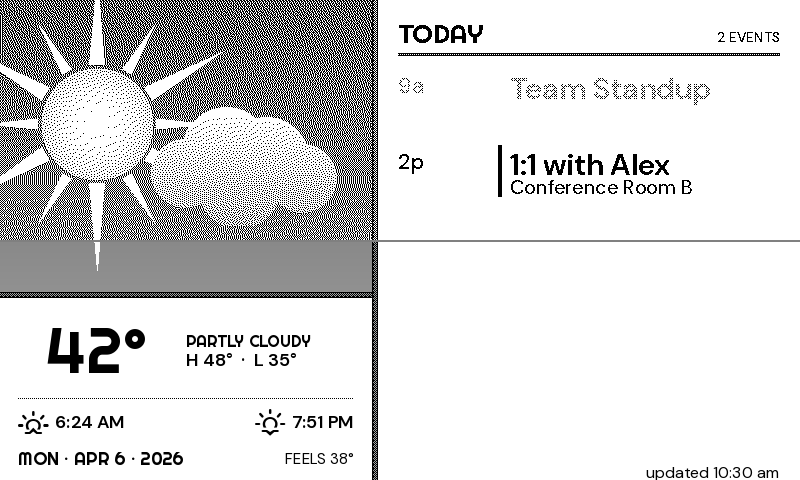
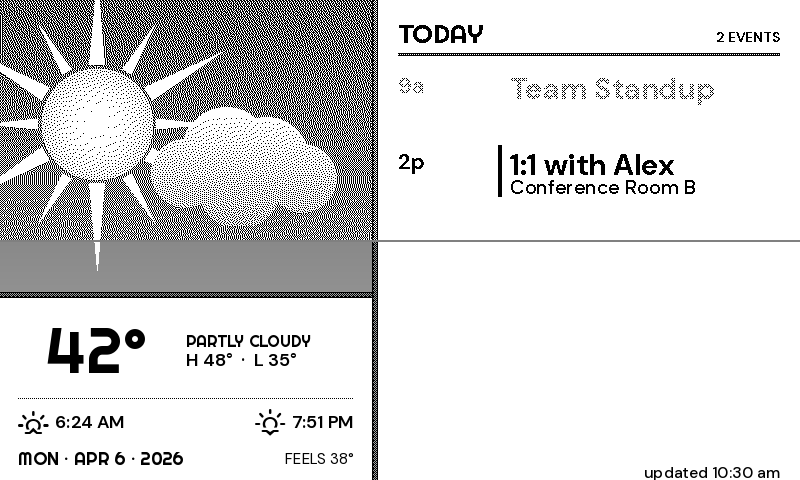
Match the halftone_agenda calendar side to its weather side
Reported from the panel: the weather band reads properly black while the
agenda beside it reads grey. Both panes are pure black on pure white by
the time the display sees them — the hardening pass guarantees that — so
this is stroke mass, not tone.

Measured at 22 px against the theme's own hardening cut: Righteous, which
sets the weather pane, lays down ~4.4 px stems; DM Sans SemiBold, which
set the agenda titles, ~3.7 px; DM Sans Regular at the 17 px used for
locations and the footer, ~1.8 px. A 1.8 px stroke on eInk is grey no
matter how black its pixels are.

The agenda now runs one weight heavier than the role each element fills
— bold titles, semibold times, medium locations, footer and count — and
the theme points its bold role at DM Sans Bold rather than Righteous,
which was only ever reached as a fallback there. DM Sans Bold at 22 px
is ~4.4 px, so the two panes now carry the same weight of ink.

Claude-Session: https://claude.ai/code/session_01B9xgTmJ1G2ewnUiMBvorMa

diff --git a/tests/test_halftone_agenda_theme.py b/tests/test_halftone_agenda_theme.py
@@ -549,6 +549,61 @@ class TestAgendaRowTreatment:
         )
 
 
+class TestAgendaWeight:
+    """The calendar side must lay down as much ink as the weather side.
+
+    Both panes are pure black on pure white by the time the panel sees them,
+    so "not black enough" is a question of stroke mass, not of tone: at 22 px
+    Righteous sets ~4.4 px stems and DM Sans SemiBold ~3.7 px, which reads as
+    grey text next to it. The agenda therefore runs one weight heavier than
+    the role each element fills.
+    """
+
+    def _mean_stem(self, font, text="12:30p Grocery run") -> float:
+        from PIL import ImageDraw
+
+        from src.render.skyart import TYPESET_CUT
+
+        tile = Image.new("L", (320, 34), 255)
+        ImageDraw.Draw(tile).text((2, 4), text, font=font, fill=0)
+        px = tile.point(lambda v: 0 if v < TYPESET_CUT else 255).load()
+        runs = total = 0
+        for y in range(34):
+            run = 0
+            for x in range(320):
+                if px[x, y] == 0:
+                    run += 1
+                else:
+                    if run:
+                        runs += 1
+                        total += run
+                    run = 0
+        return total / max(1, runs)
+
+    def test_bold_role_is_dm_sans_not_the_display_face(self):
+        # Righteous is reached through font_title / font_section_label /
+        # font_date_number, which frees the bold role for the agenda rows.
+        from src.render.fonts import dm_bold, righteous
+
+        style = load_theme("halftone_agenda").style
+        assert style.font_bold is dm_bold
+        assert style.font_title is righteous
+
+    def test_agenda_titles_match_the_weather_pane_for_stroke_mass(self):
+        from src.render.fonts import righteous
+
+        style = load_theme("halftone_agenda").style
+        target = self._mean_stem(righteous(22))
+        title = self._mean_stem(style.font_bold(22))
+        assert title >= target * 0.95, f"agenda {title:.2f}px vs weather {target:.2f}px"
+
+    def test_every_agenda_role_is_a_step_heavier(self):
+        style = load_theme("halftone_agenda").style
+        light = self._mean_stem(style.font_regular(17))
+        used = self._mean_stem(style.font_medium(17))  # what locations now use
+        assert used > light
+
+
 class TestTypesetHardening:
     """Text must not dither.
 

diff --git a/src/render/themes/halftone_agenda.py b/src/render/themes/halftone_agenda.py
@@ -22,6 +22,12 @@ carries the weather pane and the agenda's chrome; DM Sans sets the event rows,
 which are small enough and numerous enough to want the screen-optimised cut
 (the same division ``day_arc`` makes, for the same reason).
 
+The agenda's DM Sans runs a weight heavier than the roles it fills — bold for
+titles, semibold for times, medium for locations and the footer. Weight, not
+size, is what makes ink read as black on an eInk panel: at 22 px Righteous
+sets ~4.4 px stems while DM Sans SemiBold sets ~3.7 px, so matching the roles
+one-for-one left the calendar side visibly greyer than the weather side.
+
 On Inky the canvas is RGB (``prefer_color_on_inky=True``): yellow rings the
 sun and moon, red fills the in-progress event bar. Everything else stays black
 on paper so the engraving still reads as one.
@@ -29,7 +35,7 @@ on paper so the engraving still reads as one.
 
 from __future__ import annotations
 
-from src.render.fonts import dm_medium, dm_regular, dm_semibold, righteous
+from src.render.fonts import dm_bold, dm_medium, dm_regular, dm_semibold, righteous
 from src.render.theme import (
     INKY_RED,
     INKY_YELLOW,
@@ -73,7 +79,12 @@ def halftone_agenda_theme() -> Theme:
             font_regular=dm_regular,
             font_medium=dm_medium,
             font_semibold=dm_semibold,
-            font_bold=righteous,
+            # DM Sans Bold, not Righteous: the display face is reached through
+            # font_title / font_section_label / font_date_number, which leaves
+            # the bold role free for the agenda's heaviest rows. Righteous sets
+            # ~4.4 px stems at 22 px and DM Sans Bold ~4.4 px at the same size,
+            # so the two panes carry the same weight of ink on the panel.
+            font_bold=dm_bold,
             font_title=righteous,
             font_section_label=righteous,
             font_date_number=righteous,

diff --git a/src/render/components/halftone_agenda_panel.py b/src/render/components/halftone_agenda_panel.py
@@ -239,7 +239,7 @@ def draw_halftone_agenda(
 
     # --- "updated HH:MM am" caption in the bottom corner of the agenda pane.
     ink = _ink(mode)
-    footer_font = style.font_regular(16)
+    footer_font = style.font_medium(16)
     stamp = f"updated {_clock(now_naive).lower()}"
     sw = text_width(draw, stamp, footer_font)
     draw.text(
@@ -502,9 +502,13 @@ def _draw_event_row(
     """
     mode = image.mode
     ink = _ink(mode)
-    time_font = style.font_medium(time_pt)
-    title_font = style.font_semibold(title_pt)
-    loc_font = style.font_regular(max(12, time_pt - 2))
+    # One weight heavier than the role each of these fills. See the theme
+    # module: at these sizes DM Sans at its nominal weight lays down noticeably
+    # less ink than the Righteous in the weather pane, and on a panel that
+    # reads as grey text rather than as lighter text.
+    time_font = style.font_semibold(time_pt)
+    title_font = style.font_bold(title_pt)
+    loc_font = style.font_medium(max(12, time_pt - 2))
 
     time_str = "ALL DAY" if event.is_all_day else fmt_time(event.start)
     title_x = x0 + time_w + 12
@@ -579,7 +583,7 @@ def _draw_agenda_pane(
     mode = image.mode
     ink = _ink(mode)
     title_font = (style.font_title or style.font_bold)(26)
-    count_font = style.font_medium(14)
+    count_font = style.font_semibold(14)
 
     day_events = events_for_day(events, day)
 
@@ -670,7 +674,7 @@ def _draw_agenda_pane(
         # has its neighbours to read against, while this line sits alone under
         # the last row with nothing around it. It is the one line that says the
         # day continues past what is shown, so it has to survive the panel.
-        more_font = style.font_semibold(title_pt)
+        more_font = style.font_bold(title_pt)
         draw.text(
             (x0 + time_w + 12, y + 2),
             f"+{overflow} more",

diff --git a/CLAUDE.md b/CLAUDE.md
@@ -490,6 +490,7 @@ default to `None` and fall back gracefully so adding a new field never breaks ex
   - **Event marks bracket the row's type, not its pitch.** The roomiest tier sets 92-px rows so a two-event day breathes; a tick drawn to the full row height there reads as a column divider.
   - **The next timed event still ahead gets an accent tick** (`_accent_red`, red on Inky, plain ink on Waveshare). All-day rows are excluded — they sort to the top of the day and have no "next" about them. This is also what gives the Inky render a colour mark on the agenda side; the yellow sun ring is confined to the art pane.
   - **It is in `THEMES_NEEDING_TOMORROW`** (`src/app.py`) alongside `day_arc`. The default event window is Monday-anchored and 7 days long, so on a Sunday it stops before tomorrow — any theme that rolls its agenda over after dark needs the extra day fetched or it reports "Nothing scheduled" every Sunday evening. Add new rollover themes to that set.
+  - **The agenda's DM Sans runs one weight heavier than the role it fills** — `font_bold` for titles, `font_semibold` for times, `font_medium` for locations and the footer — and the theme points `font_bold` at `dm_bold` rather than Righteous (the display face is reached through `font_title`/`font_section_label`/`font_date_number`). Both panes are pure black on pure white by the time the panel sees them, so "not black enough" is stroke mass, not tone: at 22 px Righteous sets ~4.4 px stems and DM Sans SemiBold ~3.7 px, which reads as grey text beside it. DM Sans Bold at 22 px is ~4.4 px, matching the weather pane.
   - Typography is role-split like `day_arc`'s: Righteous for the weather pane and agenda chrome, DM Sans for the event rows. Inky palette `(INKY_YELLOW, INKY_RED)`. Included in the random rotation pool.
 - `artkit.to_local_naive(dt, tz)` drops tzinfo **without conversion** when `tz is None`, rather than calling a bare `dt.astimezone()`. The bare call resolves against the host machine's timezone, which would make a render of identical inputs differ between machines — and `tests/test_theme_pixel_snapshots.py` hashes exactly that render. Note the two normalisations are different and must not be mixed: `CalendarEvent.start`/`end` are already naive local and are only defensively stripped, while sun times and `RenderContext.now` are aware and go through `to_local_naive`.
 - `tests/test_theme_pixel_snapshots.py` SHA-256s the raw `render_dashboard()` output for every theme in `_THEME_REGISTRY` (pinned `FIXED_NOW = 2026-04-06 10:30` + dummy data) and compares against `tests/snapshots/theme_pixel_hashes.json`. A guard test also fails when a newly registered theme has no baseline. The hash assertion is gated on runtime `PIL.__version__` exactly matching `reference_env.pillow_version` in the JSON — when it doesn't, the render still runs (catches crashes) but the assertion is skipped. This way routine upstream Pillow releases don't fail CI spuriously. The strict assertion fires in the dedicated `snapshot-tests` CI job, which reads `reference_env.pillow_version` and `pip install Pillow==<pinned>` before running. When a theme edit is intentional (or Pillow is upgraded deliberately), regenerate baselines with `UPDATE_SNAPSHOTS=1 pytest tests/test_theme_pixel_snapshots.py` and commit the updated JSON alongside the source change; the job will pick up the new Pillow version automatically.

diff --git a/CHANGELOG.md b/CHANGELOG.md
@@ -8,6 +8,15 @@ The format is based on [Keep a Changelog](https://keepachangelog.com/).
 
 ### Fixed
 
+- **`halftone_agenda`'s calendar side now carries the same weight of ink as
+  its weather side.** Both panes are pure black on pure white by the time the
+  panel sees them, so the calendar reading grey was stroke mass, not tone: at
+  22 px Righteous sets ~4.4 px stems while DM Sans SemiBold sets ~3.7 px. The
+  agenda now runs one weight heavier than the role each element fills — bold
+  titles, semibold times, medium locations and footer — and the theme's bold
+  role points at DM Sans Bold instead of Righteous, which was only ever
+  reached as a fallback.
+
 - **`halftone_agenda` agenda pane reads better on a panel.** Rows are
   top-justified under the rule at a pitch sized to their type, instead of a
   stretch-to-fill pitch that left a two-event day floating mid-pane; the
